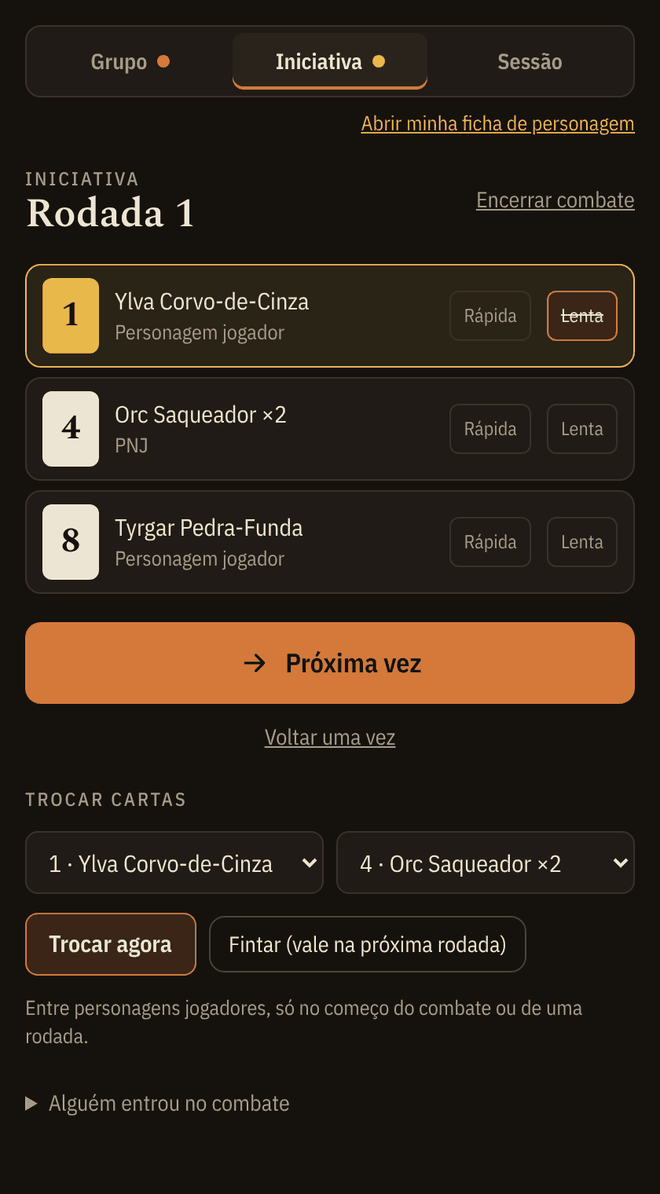
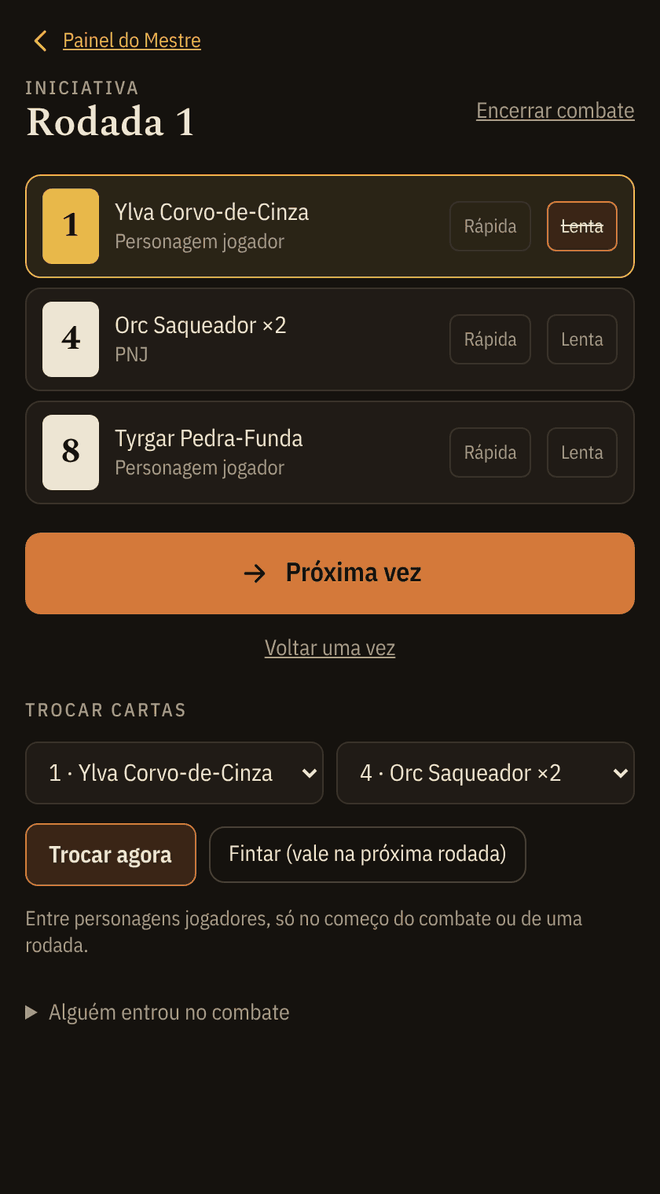
Guia com as telas novas do Mestre, CHANGELOG e README (0.9.0)
Claude-Session: https://claude.ai/code/session_01EEGg4afkH1NbdmWyT9rS8i

diff --git a/docs/GUIA.md b/docs/GUIA.md
@@ -21,8 +21,11 @@ Nas imagens estão Ylva Corvo-de-Cinza, uma caçadora humana, e Tyrgar Pedra-Fun
   - [Reputação, XP e Evoluir](#reputação-xp-e-evoluir)
   - [Cópia de segurança](#cópia-de-segurança)
 - **Para o Mestre**
+  - [A mesa](#a-mesa)
   - [Grupo](#grupo)
   - [Iniciativa](#iniciativa)
+  - [Pedir rolagem](#pedir-rolagem)
+  - [Jornada](#jornada)
   - [Fim de sessão](#fim-de-sessão)
 - [Dúvidas comuns](#dúvidas-comuns)
 
@@ -322,9 +325,23 @@ No fim da aba Histórico:
 
 # Para o Mestre
 
-Quem tem permissão de Mestre no TaleSpire abre a ficha direto no **painel do Mestre**, com três abas: **Grupo**, **Iniciativa** e **Sessão**. O link **Abrir minha ficha de personagem** leva para uma ficha comum, se você também quiser usar uma.
+Quem tem permissão de Mestre no TaleSpire abre a ficha direto no **painel do Mestre**. Tudo o que aparece nele vem das fichas **abertas** dos jogadores no mesmo tabuleiro.
 
-Tudo o que aparece no painel vem das fichas **abertas** dos jogadores no mesmo tabuleiro.
+## A mesa
+
+<img src="img/31-home.png" width="330" align="right">
+
+A tela inicial do painel tem um card para cada ferramenta, com o estado ao vivo:
+
+- **Grupo**: quantas fichas estão ao vivo e se há alertas;
+- **Iniciativa**: se há combate, a rodada e de quem é a vez;
+- **Jornada**: dia, Quarto, estação e terreno;
+- **Pedir rolagem**: quantos jogadores já rolaram o último pedido;
+- **Fim de sessão**: XP concedido.
+
+Os alertas urgentes, como um ferimento letal, aparecem no topo. **Minha ficha** abre uma ficha comum, se você também quiser jogar com um personagem. Em qualquer ferramenta, **← Painel do Mestre** volta para cá.
+
+<br clear="right">
 
 ## Grupo
 
@@ -382,6 +399,51 @@ A ordem e a vez de cada um vão para o chat da mesa.
 
 Na ficha de cada jogador aparece uma faixa com a carta dele, a ordem da rodada e de quem é a vez.
 
+## Pedir rolagem
+
+<img src="img/32-pedir.png" width="330" align="right">
+
+Para pedir uma rolagem a um ou mais jogadores:
+
+1. Escolha **Perícia**, **Atributo** ou **Recurso** (comida, água, flechas ou tochas).
+2. Ajuste o **modificador** e, se quiser, escreva o motivo.
+3. Marque quem rola e clique em **Pedir**.
+
+Os resultados chegam no card do pedido: quantos sucessos cada um tirou, se forçou, ou como ficou o Dado de Recurso.
+
+<br clear="right">
+
+<img src="img/33-jogador-pedido.png" width="330">
+
+Na ficha do jogador aparece o pedido. **Rolar** abre a rolagem já montada, com a perícia e o modificador. **Ignorar** avisa o Mestre. Se o recurso pedido já acabou, a ficha avisa isso no lugar de rolar.
+
+## Jornada
+
+<img src="img/34-jornada.png" width="330" align="right">
+
+A Jornada acompanha a viagem pelo mapa, Quarto de Dia por Quarto de Dia:
+
+- **Dia e Quarto**: Manhã, Dia, Anoitecer e Noite, com a luz de cada um pela **estação**.
+- **Terreno**: mostra quantos hexágonos dá para caminhar por Quarto e os modificadores de Coletar e Caçar, já somados à estação.
+- **Atividades**: escolha o que cada um faz no Quarto: Caminhar, Desbravar, Vigiar, Coletar, Caçar, Pescar, Acampar, Descansar, Dormir ou Explorar. A tela avisa se duas pessoas fazem uma atividade de uma pessoa só, se o grupo se divide ou se ninguém vigia.
+- **Rolagens prontas**: cada atividade gera o botão do pedido de rolagem com o modificador certo, por exemplo Desbravar com −2 no escuro.
+- **Escuro e marcha forçada**: no escuro, um botão pede Patrulha a quem caminha. Depois de dois Quartos caminhando no dia, o terceiro pede Resiliência e o quarto pede Resiliência −2 e deixa todos Insones.
+- **Necessidades do dia**: **Pedir Comida e Água a todos** rola o Dado de Recurso de cada um e marca quem comeu e bebeu. Quem Dorme num Quarto fica marcado como dormiu. Você também pode marcar à mão.
+
+**Passar para o próximo Quarto** avança e avisa no chat.
+
+<br clear="right">
+
+<img src="img/35-fim-dia.png" width="330" align="right">
+
+Ao encerrar a Noite, a tela mostra quem fica **Faminto**, **Desidratado** ou **Insone**. **Marcar condições** marca tudo na ficha de cada jogador e começa o dia seguinte.
+
+<br clear="right">
+
+<img src="img/36-jogador-jornada.png" width="330">
+
+Na ficha do jogador aparece uma faixa com o dia, o Quarto, a estação e a atividade dele.
+
 ## Fim de sessão
 
 <img src="img/27-sessao.png" width="330" align="right">
@@ -406,8 +468,11 @@ Se alguém não aparece na lista, peça para o jogador abrir a ficha e clique em
 **Preciso deixar a ficha aberta?**
 Não precisa deixá-la na tela, mas o Symbiote precisa estar ativo e você precisa estar no mesmo tabuleiro. Sem isso, o Mestre não vê você no Grupo e você não recebe XP nem a carta de iniciativa.
 
-**Atualizar o Symbiote apaga a ficha?**
-Não deveria, porque a ficha fica salva por campanha no TaleSpire. Mesmo assim, faça uma [cópia de segurança](#cópia-de-segurança) antes de atualizar.
+**Preciso atualizar o Symbiote?**
+Não. A ficha carrega da internet, e cada versão nova chega sozinha na próxima vez que você abre o Symbiote. O número da versão aparece no fim da aba Histórico.
+
+**Remover o Symbiote apaga a ficha?**
+Sim. As fichas ficam salvas na pasta do Symbiote, por campanha. Só remova se for reinstalar, e faça uma [cópia de segurança](#cópia-de-segurança) antes.
 
 **O TaleSpire mostra a soma dos dados. Está errado?**
 A soma dos d6 não significa nada no Forbidden Lands, por isso a ficha esconde o resultado nativo. Vale o que aparece na ficha e no chat.

diff --git a/README.md b/README.md
@@ -30,7 +30,9 @@ Ficha de personagem de Forbidden Lands que roda dentro do TaleSpire como Symbiot
 - Armadura: a ficha soma a armadura e o elmo vestidos. "Fui atingido" rola a armadura na bandeja (cada 6 reduz 1 de dano), aplica o resto na Força e, se algum dano passou, desgasta a armadura pelos 1 rolados (você escolhe se a armadura ou o elmo).
 - Ferimentos Graves: quando a Força ou a Astúcia fica Acabada, a ficha rola o D66 na bandeja na tabela certa (laceração, perfuração ou trauma concussivo pelo tipo do golpe; horror para Astúcia), aplica a regra do elmo e anota o ferimento com efeito, prazo se for letal e dias de cura (com "Cuidados" para cortar pela metade). Ficar Acabado ao forçar não gera ferimento; dano atípico (fogo, frio) tem opção própria.
 - Rolar sem dados 3D, se precisar.
-- Painel do Mestre: quem tem permissão de Mestre abre direto no painel, com Grupo, Iniciativa e Sessão (a ficha de personagem fica a um clique). O Grupo mostra ao vivo, a partir das fichas abertas dos jogadores, atributos, quem está Acabado, ferimentos (com alerta para os letais), condições, Força de Vontade, armadura, sobrecarga, consumíveis, XP e Reputação; quem fecha o Symbiote aparece como sem sinal.
+- Painel do Mestre: quem tem permissão de Mestre abre direto numa home de cards (Grupo, Iniciativa, Jornada, Pedir rolagem e Fim de sessão), cada um com o estado ao vivo; a ficha de personagem do Mestre fica a um clique. O Grupo mostra ao vivo, a partir das fichas abertas dos jogadores, atributos, quem está Acabado, ferimentos (com alerta para os letais), condições, Força de Vontade, armadura, sobrecarga, consumíveis, XP e Reputação; quem fecha o Symbiote aparece como sem sinal.
+- Pedir rolagem: o Mestre pede uma perícia, um atributo ou um Dado de Recurso, com modificador e motivo, a um ou mais jogadores. A ficha do jogador mostra o pedido com a rolagem já montada, e os resultados voltam para o painel.
+- Jornada: dia e Quartos de Dia com a luz de cada estação, terreno com movimento e modificadores de Coletar e Caçar, atividade de cada personagem (com avisos de atividades repetidas, grupo dividido e falta de vigia), rolagens prontas com o modificador certo, escuro, marcha forçada e as necessidades do dia (comer, beber, dormir), marcando Faminto, Desidratado ou Insone na ficha de quem precisar.
 - Iniciativa com o baralho de 10 cartas (aba só para quem pode ser mestre): montar o combate com as fichas abertas na mesa, a fila do TaleSpire, os minis selecionados ou nomes escritos; grupos de PNJs iguais; cartas extras por surpresa ou Rápido como um Raio, com escolha da carta; rodadas, vez de cada um, marcação de ação rápida e lenta, troca de cartas e FINTAR. A ordem e a vez aparecem no chat e na ficha de cada jogador. O chat marca essas rolagens como "rolado na ficha".
 
 A ficha é salva por campanha, no próprio TaleSpire. Na aba Histórico, "Exportar ficha" copia a ficha inteira como texto, "Importar ficha" a traz de volta e "Limpar ficha" recomeça do zero (pedindo confirmação). Guarde uma cópia antes de atualizar o Symbiote, ou use para levar a ficha para outra campanha ou outro computador.

diff --git a/CHANGELOG.md b/CHANGELOG.md
@@ -1,0 +1,24 @@
+# Novidades
+
+A ficha se atualiza sozinha: cada versão chega na próxima vez que o Symbiote abre. O número da versão aparece no fim da aba Histórico.
+
+## 0.9.0
+
+- Painel do Mestre com home de cards: Grupo, Iniciativa, Jornada, Pedir rolagem e Fim de sessão, cada um com o estado ao vivo, e alertas urgentes no topo.
+- Pedir rolagem: o Mestre pede perícia, atributo ou Dado de Recurso, com modificador e motivo, a um ou mais jogadores. A ficha do jogador mostra o pedido com a rolagem pronta, e o resultado volta para o Mestre.
+- Jornada: Quartos de Dia com a luz da estação, terreno, atividades do grupo, rolagens prontas (Desbravar, Vigiar, Coletar, Caçar, Acampar), escuro, marcha forçada e necessidades do dia, marcando Faminto, Desidratado ou Insone.
+- O guia ganhou as telas novas do Mestre.
+
+## 0.8.2
+
+- A ficha passa a carregar da internet (GitHub Pages) e se atualiza sozinha, sem reinstalar.
+- O número da versão aparece no fim da aba Histórico.
+
+## 0.8.1
+
+- Catálogo de itens em ordem alfabética dentro de cada seção.
+
+## 0.8.0
+
+- Aba Magia (grimório), preenchida pelos caminhos mágicos e suas categorias, com as 68 magias do livro e a Magia Geral para Druidas e Feiticeiros.
+- Lançar magias: PFV, ingrediente, grimório, lançamento seguro e arriscado, sobrecarga, Poder Mental e infortúnios mágicos.
